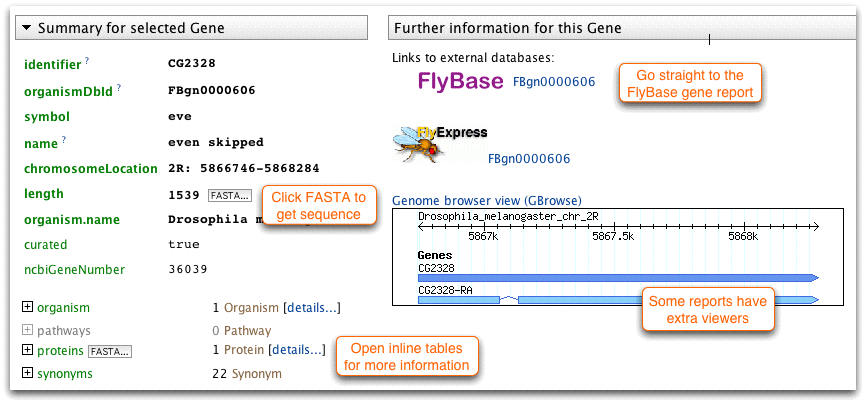
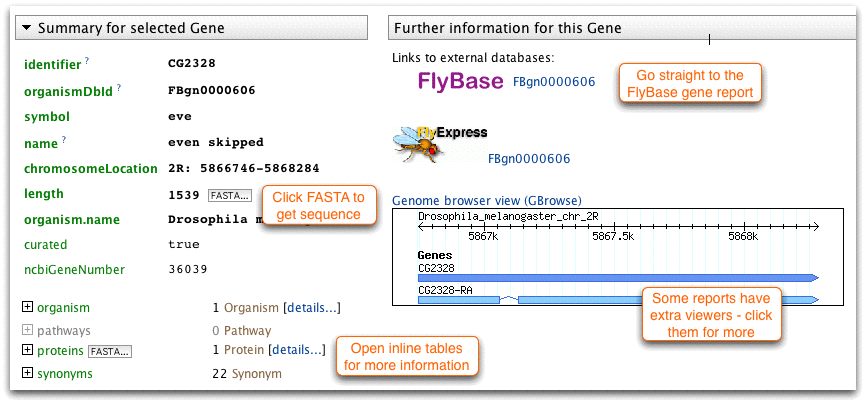
Updates to tour from Gos' feedback.

Changed region(s): [[0.7171, 0.7129, 0.9353, 0.8614], [0.3118, 0.4752, 0.4365, 0.505]]

diff --git a/www/flymine/site/tour/tour_10.html b/www/flymine/site/tour/tour_10.html
@@ -48,7 +48,7 @@ MyMine
         <div >
 
 <p>
-You can use bags in any template query or queries you create yourself in the QueryBuilder.  As the bag details page suggested many of the genes in our bag are transcription factors we can run a template to find the genes they regulate.  FlyMine includes FlyReg - a curated DNase 1 binding site data set which we can query with another template. 
+You can use bags in any template query, or queries you create yourself in the QueryBuilder.  As the bag details page suggested many of the genes in our bag are transcription factors we can run a template to find the genes they regulate.  FlyMine includes FlyReg - a curated DNase 1 binding site data set which we can query with another template. 
 </p>
 
 <p><b>Search the template queries for 'regulated genes'.</b></p>
@@ -59,15 +59,15 @@ You can use bags in any template query or queries you create yourself in the Que
 
 <img alt="[Select template]"  src="select_template2.png"/>
 
-<p>Now that we have created a bag the template query gives us the option to use it instead of entering and identifier.</p>
+<p>Now that we have created a bag the template query gives us the option to use it instead of entering an identifier.</p>
 
-<p><b>Click the checkbox to select our demo bag and run the query.</b></p>
+<p><b>Click the checkbox to select the demo bag you named earlier, and then run the query.</b></p>
 
 <img alt="[Run template with bag]"  src="template_bag.png"/>
 
 <p>The results table shows any genes from our original bag that, according to FlyReg, regulate a particular gene.</p>
 
-<p>You can also create new bags from results tables.  We can save a bag of the regulated genes from this query to look at the bag details page or use it in more templates.</p>
+<p>You can also create new bags from results tables.  We can save a bag of the regulated genes from this query for analysis on the bag details page or to use in more templates.</p>
 
 <p><b>Click on the checkbox by 'Regulated gene > identifier' and choose a name for the saved bag.</b></p>
 
@@ -81,7 +81,7 @@ You can use bags in any template query or queries you create yourself in the Que
 <li>all the orthologues in another organism, e.g. <i>D. pseudoobscura</i></li>
 <li>gene expression results from FlyAtlas</li>
 <li>protein-protein interactions for these genes</li>
-<li>and P-element insertions that overlap these genes</li>
+<li>P-element insertions insertions for these genes</li>
 </ul>
 </p>
 

diff --git a/www/flymine/site/tour/tour_6.html b/www/flymine/site/tour/tour_6.html
@@ -60,7 +60,7 @@ Bag Upload
 
 <p>The pane on the left is a view of the data model starting at the class gene and showing all attributes (e.g. name, symbol) and related classes (e.g. organism, proteins).  FlyMine uses an object based data model - biological types are termed 'classes' and individual entries are termed 'objects'.  For example the 'zen' and 'eve' genes are both objects of the class Gene.</p>
 
-<p>You can click to open related classes and see their attributes.  The <img alt="[show]"  src="show.gif"/> and <img alt="[constrain]"  src="constrain.gif"/> buttons let you add fields to the output of a query and add constraints (filters). </p> 
+<p>You can click to open related classes and see their attributes.  Use the <img alt="[show]"  src="show.gif"/> button to add fields to the output.  The <img alt="[constrain]" src="constrain.gif"/> button lets you add constraints (filters). </p> 
 
 <img alt="[query builder]"  src="query_builder.png"/>
 
@@ -74,7 +74,7 @@ Bag Upload
 
 <img alt="[click show results]"  src="click_show_results.png"/>
 
-<p>Now we have run the query to show orthologues of the starting gene whether they have GO annotation or not.  Now if you click the <img alt="[summary icon]"  src="summary_maths.png" valign="center"/> button for the column 'Orthologue > organism > shortName' it will show you how many orthologues there are in each organism.</p>
+<p>Now we have run the query to show orthologues of the starting gene whether they have GO annotation or not.  Now if you click the <img alt="[summary icon]"  src="summary_maths.png" valign="middle"/> button for the column 'Orthologue > organism > shortName' it will show you how many orthologues there are in each organism.</p>
 
 
 

diff --git a/www/flymine/site/tour/tour_11.html b/www/flymine/site/tour/tour_11.html
@@ -47,14 +47,19 @@ Use bags in template queries
       <div style="padding-top: 20px" class="content">
         <div >
 
-<p>The bags that we have created will be saved temporarily for our current session.  To save them permanently in FlyMine you can create a MyMine account.</p>
+<p>The bags that we have created will be saved temporarily for the current session. To save them permanently in FlyMine you can create a MyMine account.</p>
+
+<p>You only need to provide an email address and a password to generate an account, there is no other information required.  Your saved data is always private.</p>
 
 <img alt="[Click log in]"  src="click_login.png"/>
 
- <p>In MyMine you can save bags and queries you create in the QueryBuilder.  You can even use the QueryBuilder to turn a new query into a template of your own.</p>
+ <p>In MyMine you can save bags and queries you create in the QueryBuilder.  You can even use the QueryBuilder to turn queries into new templates of your own.  You can export/import queries and templates as XML to share them with others.</p>
+
+<p>The <img alt="[Favourite]"  src="star_active.gif"/> icon lets you set templates as favourites so it easy to access the ones you use often.</p>
 
 <img alt="[MyMine tabs]"  src="mymine_tabs.png"/>
 
+<p/>
 <p/>
 
 <p>Please contact us if you have any questions or suggestions: <b>support@flymine.org</b></p>

diff --git a/www/flymine/site/tour/tour_1.html b/www/flymine/site/tour/tour_1.html
@@ -74,20 +74,20 @@ introduce some of the features:</p>
 an identifier to see a report page.</p>
 
 <p><b>Template queries</b> are 'canned' queries that provide a simple
-form to perform a specific task.</p>
+form to perform a specific task.  You can create your own templates if
+you log in.</p>
 
 <p><b>Bags</b> let you operate on whole lists of data at once.  You can
-upload your own lists or save them from results tables.</p>
+upload lists or save them from results tables.</p>
 
-<p><b>The QueryBuilder</b> lets you create your own custom queries and
+<p><b>The QueryBuilder</b> lets you create custom queries and
 edit existing templates.</p>
 
 <p><b>Aspects</b> are a way to explore the data and template queries
 for a particular area of biology - for example Comparative Genomics or
 Protein Interactions.</p>
 
-<p><b>MyMine</b> lets you create an account to save your own queries
-and bags.</p>
+<p><b>MyMine</b> lets you create an account to save your own queries, bags and templates, as well as marking public templates as favourites.</p>
 
 
 

diff --git a/www/flymine/site/tour/tour_7.html b/www/flymine/site/tour/tour_7.html
@@ -47,7 +47,7 @@ Bag confirm page
       <div style="padding-top: 20px" class="content">
         <div >
 
-<p>FlyMine can operate on custom lists of data, we call them <b>bags</b>.  You can save bags from results pages or create them by uploading lists of identifiers.  Bags can be used when running template queries and analysed by a series of <b>widgets</b> on a bag details page.  You can also perform set operations on bags.</p>
+<p>FlyMine can operate on custom lists of data, we call them <b>bags</b>.  You can save bags from results pages or create them by uploading lists of identifiers.  Bags can be used when running template queries and analysed by a series of <b>widgets</b> on a bag details page.  You can merge, subtract and find common members if you have more than one bag.</p>
 </p>
 
 <p>

diff --git a/www/flymine/site/tour/tour_9.html b/www/flymine/site/tour/tour_9.html
@@ -48,7 +48,7 @@ Use bags in template queries
         <div >
 
 <p>
-The bag details is a great way to find out more about a list of genes.  A number of 'widgets' display graphs and tables to summarise the contents.  These are interactive - click to see lists of genes in each category,
+The bag details page is a great way to find out more about a list of genes.  A number of 'widgets' display graphs and tables to summarise the contents.  These are interactive - click to see lists of genes in each category.
 </p>
 
 <p><i>Coming soon - we plan to add more widgets and functionality to the bag details page.</i></p>

diff --git a/www/flymine/site/tour/tour_2.html b/www/flymine/site/tour/tour_2.html
@@ -54,7 +54,7 @@ Template Queries
 <img alt="[Quick Search]" src="quick_search.png"/>
 
 <p>
-The report page shows information from many data sources in one place.  There are corresponding pages for all objects in FlyMine, use <img alt="[details...]" align="middle" src="details.png"/> links to browse.
+The report page shows information from many data sources in one place.  There are corresponding pages for all objects in FlyMine, use <img alt="[details...]" valign="middle" src="details.png"/> links to browse.
 </p>
 
 <img alt="[object details summary]"  src="object_details_summary.png"/>
